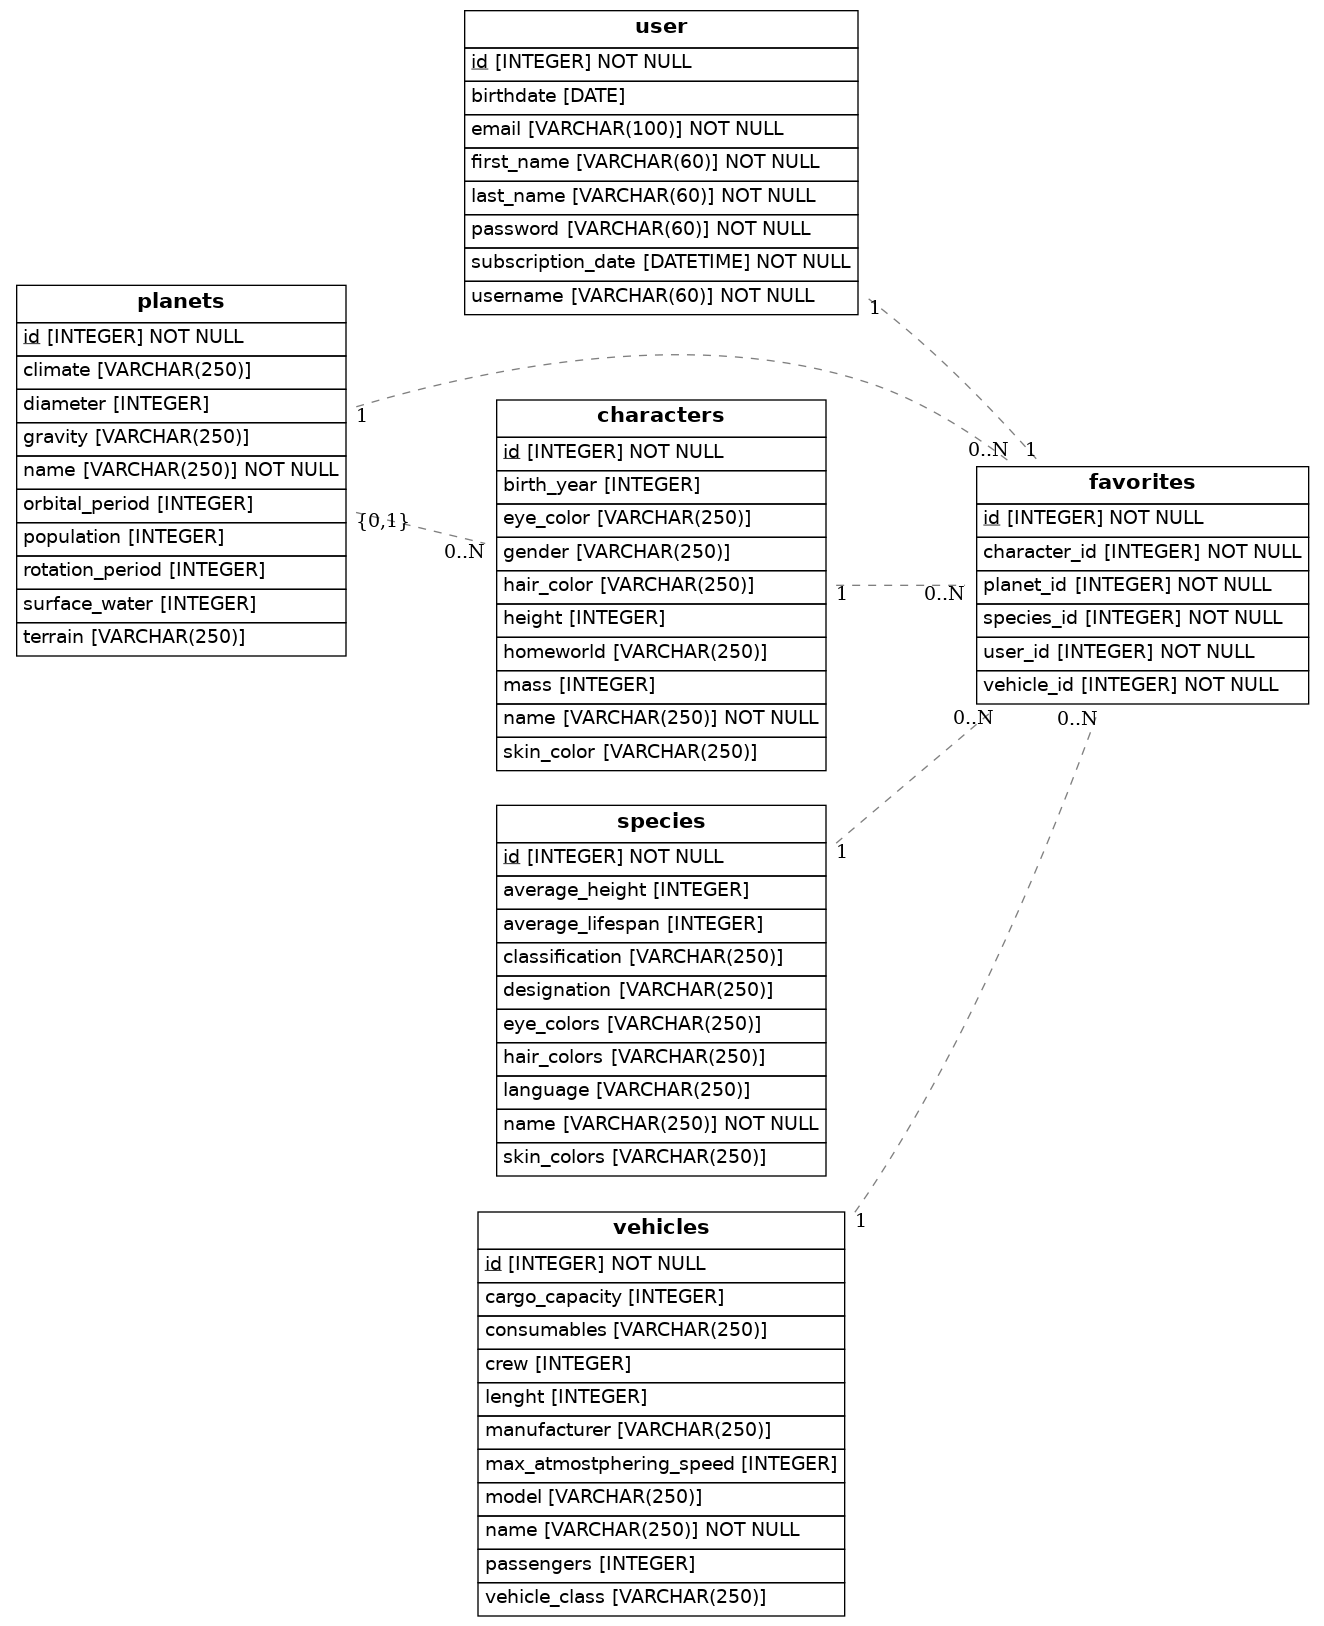
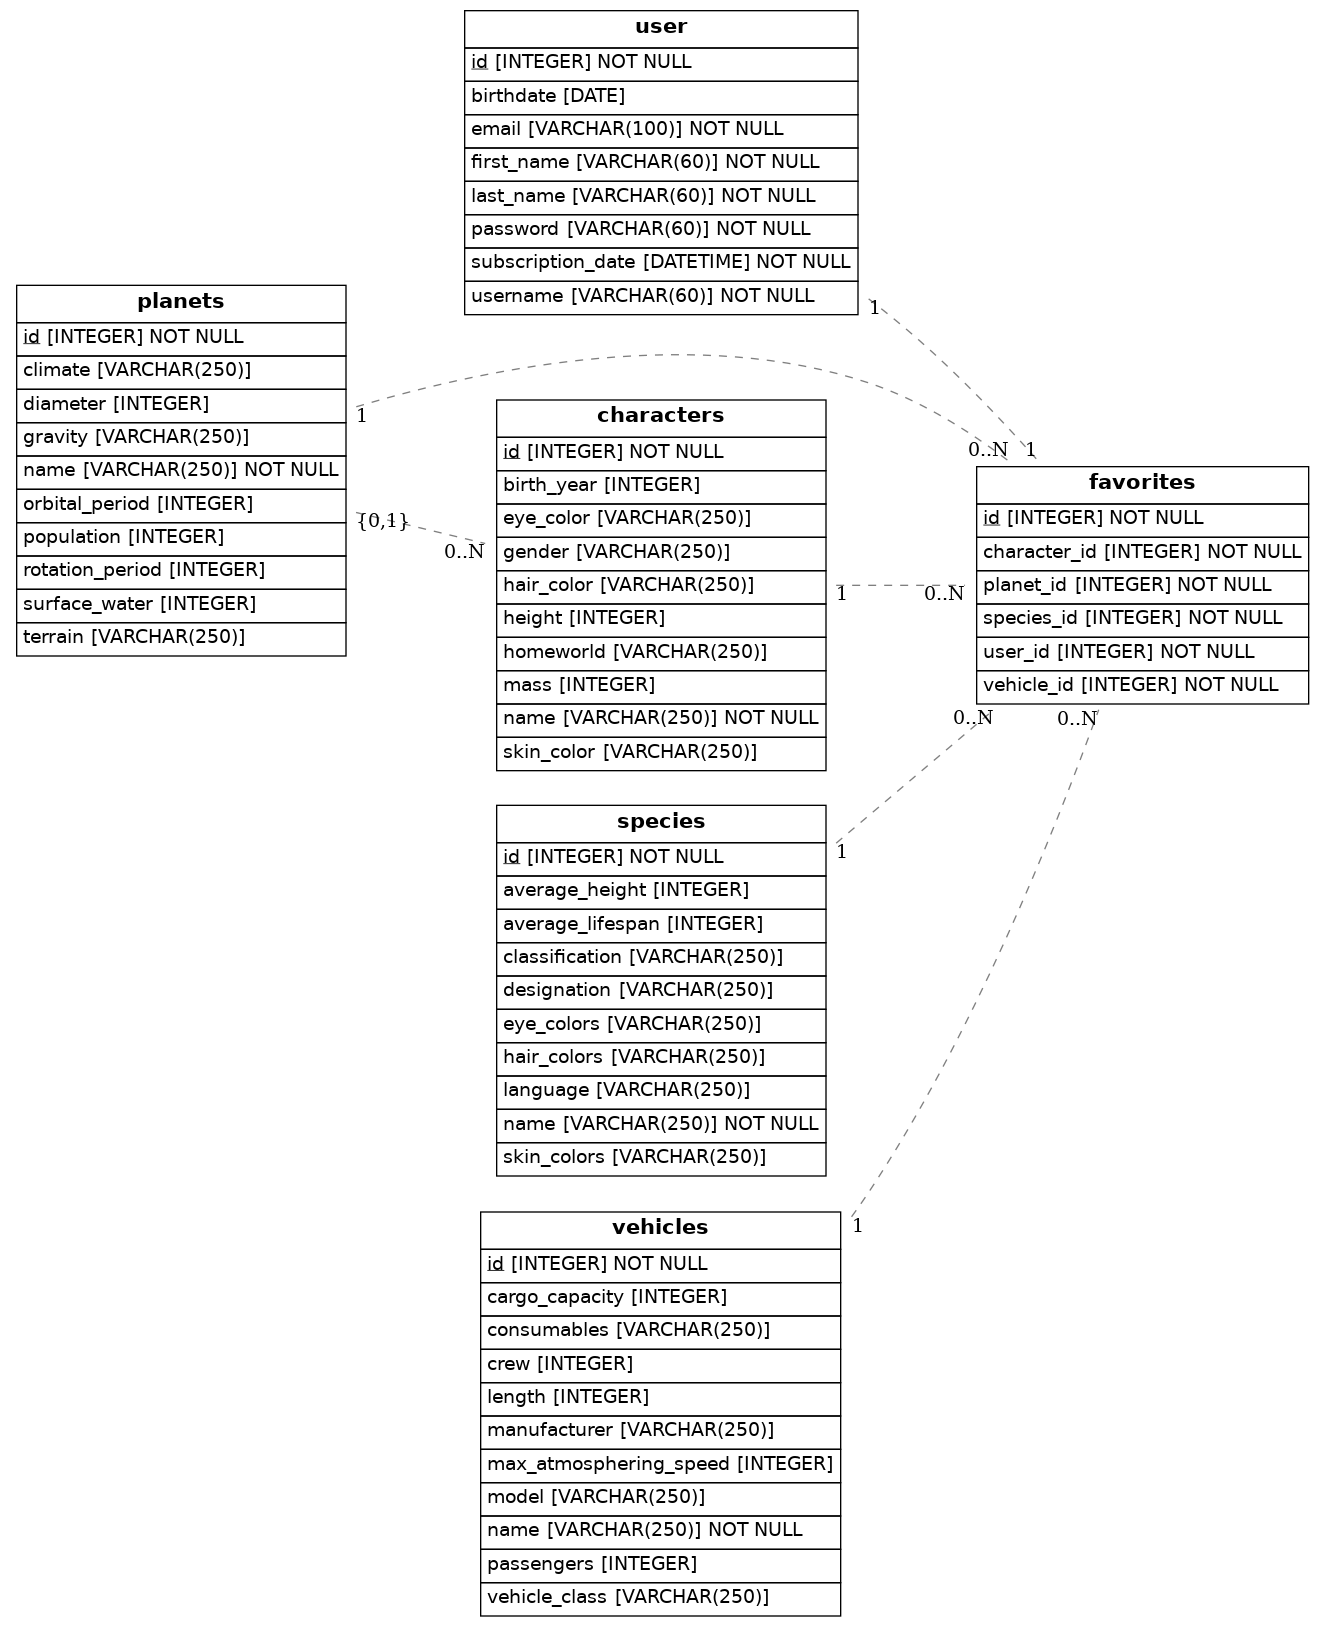
last changes

Changed region(s): [[0.3406, 0.738, 0.6503, 1.0], [0.6193, 0.7995, 0.6503, 0.8303], [0.6193, 0.738, 0.6503, 0.7688]]

diff --git a/src/models.py b/src/models.py
@@ -83,7 +83,7 @@ class Vehicles(Base):
     vehicle_class = Column(String(250))
     consumables = Column(String(250))
     length = Column(Integer)
-    max_atmostphering_speed = Column(Integer)
+    max_atmosphering_speed = Column(Integer)
     cargo_capacity = Column(Integer)
     crew = Column(Integer)
     passengers = Column(Integer)
